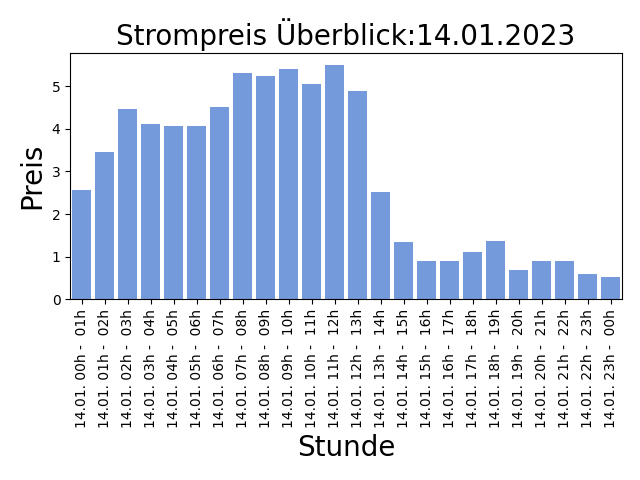
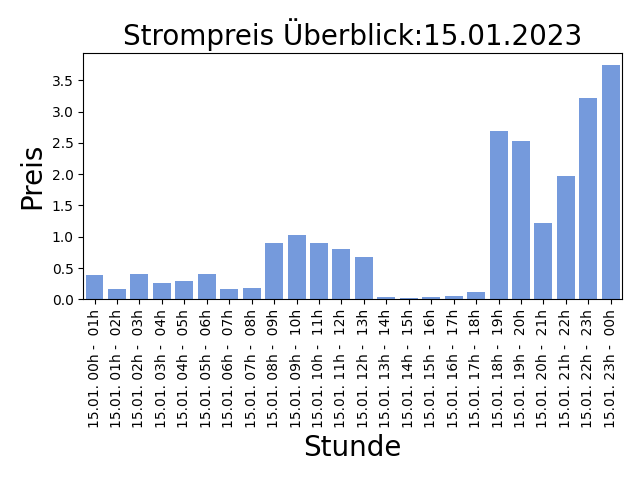
AUTOMATIC UPDATE PRICE LIST: 2023-01-14-14:30:11

diff --git a/README.md b/README.md
@@ -1,5 +1,5 @@
 
-## Strompreise für den 14.01.2023
+## Strompreise für den 15.01.2023
 
 Niedrige Preise deuten auf viel Sonnen und Windenergieerzeugung hin, ein hoher Anteil an erneuerbaren Energien bedeuted weniger CO2 Verbrauch!
 
@@ -7,31 +7,31 @@ Niedrige Preise deuten auf viel Sonnen und Windenergieerzeugung hin, ein hoher A
 
 | Stunde | Preis in Cent/kWh |
 |---|---|
-| 14.01. 00h -  01h | 2.568 | 
-| 14.01. 01h -  02h | 3.4619999999999997 | 
-| 14.01. 02h -  03h | 4.470000000000001 | 
-| 14.01. 03h -  04h | 4.122999999999999 | 
-| 14.01. 04h -  05h | 4.07 | 
-| 14.01. 05h -  06h | 4.068 | 
-| 14.01. 06h -  07h | 4.51 | 
-| 14.01. 07h -  08h | 5.314 | 
-| 14.01. 08h -  09h | 5.234 | 
-| 14.01. 09h -  10h | 5.4159999999999995 | 
-| 14.01. 10h -  11h | 5.047 | 
-| 14.01. 11h -  12h | 5.5009999999999994 | 
-| 14.01. 12h -  13h | 4.891 | 
-| 14.01. 13h -  14h | 2.525 | 
-| 14.01. 14h -  15h | 1.342 | 
-| 14.01. 15h -  16h | 0.905 | 
-| 14.01. 16h -  17h | 0.9039999999999999 | 
-| 14.01. 17h -  18h | 1.1039999999999999 | 
-| 14.01. 18h -  19h | 1.369 | 
-| 14.01. 19h -  20h | 0.6839999999999999 | 
-| 14.01. 20h -  21h | 0.9029999999999999 | 
-| 14.01. 21h -  22h | 0.907 | 
-| 14.01. 22h -  23h | 0.5900000000000001 | 
-| **14.01. 23h -  00h** | **0.519** | 
+| 15.01. 00h -  01h | 0.394 | 
+| 15.01. 01h -  02h | 0.17099999999999999 | 
+| 15.01. 02h -  03h | 0.41 | 
+| 15.01. 03h -  04h | 0.265 | 
+| 15.01. 04h -  05h | 0.28700000000000003 | 
+| 15.01. 05h -  06h | 0.40099999999999997 | 
+| 15.01. 06h -  07h | 0.158 | 
+| 15.01. 07h -  08h | 0.174 | 
+| 15.01. 08h -  09h | 0.908 | 
+| 15.01. 09h -  10h | 1.0310000000000001 | 
+| 15.01. 10h -  11h | 0.901 | 
+| 15.01. 11h -  12h | 0.8029999999999999 | 
+| 15.01. 12h -  13h | 0.6759999999999999 | 
+| 15.01. 13h -  14h | 0.041999999999999996 | 
+| **15.01. 14h -  15h** | **0.028999999999999998** | 
+| 15.01. 15h -  16h | 0.032 | 
+| 15.01. 16h -  17h | 0.046 | 
+| 15.01. 17h -  18h | 0.125 | 
+| 15.01. 18h -  19h | 2.695 | 
+| 15.01. 19h -  20h | 2.527 | 
+| 15.01. 20h -  21h | 1.217 | 
+| 15.01. 21h -  22h | 1.969 | 
+| 15.01. 22h -  23h | 3.214 | 
+| 15.01. 23h -  00h | 3.747 | 
 
 Preise der EPEX Spot ® Strombörse (neue Preise werden täglich um 14:00 veröffentlicht für den kompletten nächsten Tag).
 
-letzte Aktualisierung:13.01.2023 14:30
+letzte Aktualisierung:14.01.2023 14:30
